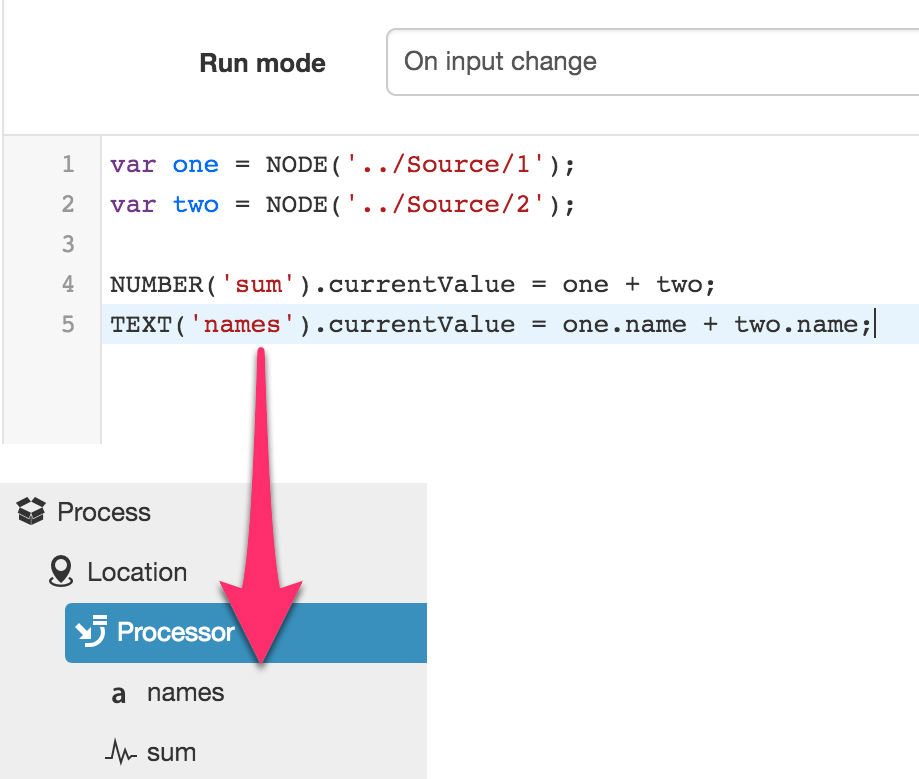
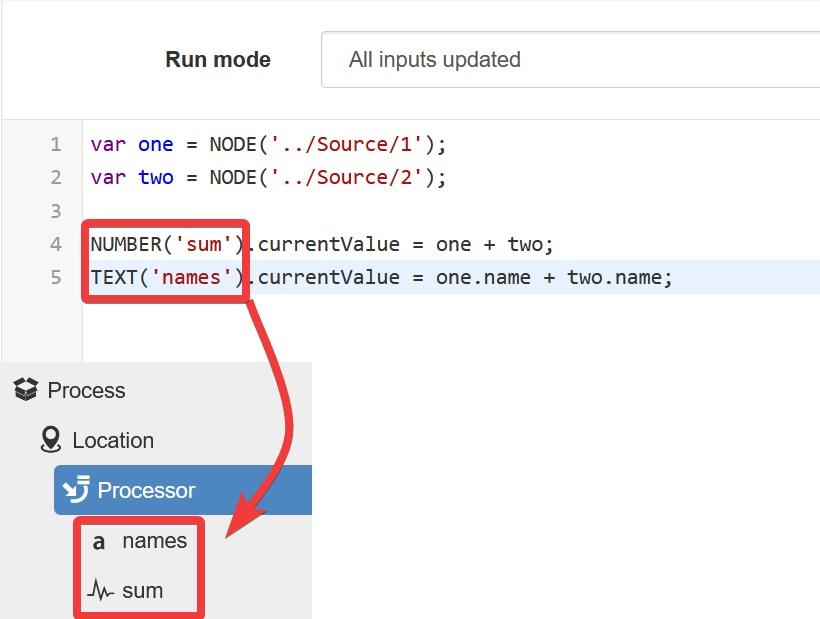
update process run mode, aggregate interval and related screenshots

Changed region(s): [[0.0, 0.1842, 0.9756, 1.0], [0.3963, 0.0307, 1.0, 0.1228], [0.1829, 0.0614, 0.3659, 0.1228]]

diff --git a/source/topics/processing_and_logic/index.rst b/source/topics/processing_and_logic/index.rst
@@ -450,6 +450,23 @@ The above example is able to treat the Node reference for **param1** as if it we
 Process Trigger
 ~~~~~~~~~~~~~~~~
 
+.. raw:: latex
+
+    \vspace{-10pt}
+
+.. only:: not latex
+
+    .. image:: run-mode.jpg
+        :scale: 50 %
+
+    | 
+
+.. only:: latex
+    
+    | 
+
+    .. image:: run-mode.jpg
+
 A process can be triggered to run in a number of ways:
 
 .. table::
@@ -492,9 +509,9 @@ Input data to your program can be filtered according to its quality type to ensu
 
 By default, your program will exclude quality types according to the :ref:`Quality Codes <management-general-qualitycodes>` configuration in your Account Settings. To ensure specific quality types are considered, a filter can be applied.
 
-.. _linked-inputs:
+.. _secondary-inputs:
 
-Linked inputs
+Secondary inputs
 ~~~~~~~~~~~~~~~~
 
 .. raw:: latex
@@ -503,7 +520,7 @@ Linked inputs
 
 .. only:: not latex
 
-    .. image:: linked-inputs.jpg
+    .. image:: secondary-inputs.jpg
         :scale: 50 %
 
     | 
@@ -512,17 +529,51 @@ Linked inputs
     
     | 
 
-    .. image:: linked-inputs.jpg
+    .. image:: secondary-inputs.jpg
 
-Process inputs may have records that occur at different times, e.g. parameters from different data sources. Input data not aligned with the current execution timestamp can be interpreted by a process in two ways:
+Secondary inputs may have records that occur at different times than the primary input, e.g. parameters from different data sources. Input data not aligned with the current execution timestamp can be interpreted by a process in two ways:
 
 .. table::
     :class: table-fluid
 
-    ===============   =================================================================
-    Linked            Values interpolated to align with the current execution timestamp
-    Unlinked          Values prior to the current execution timestamp are retained
-    ===============   =================================================================
+    =================================   ===========================================================================
+    Align input values (interpolated)   Secondary values interpolated to align with the current execution timestamp
+    Retain most recent input values     Secondary values prior to the current execution timestamp are retained
+    =================================   ===========================================================================
+
+
+.. _aggregate-inputs:
+
+Aggregate inputs
+~~~~~~~~~~~~~~~~
+
+.. raw:: latex
+
+    \vspace{-10pt}
+
+.. only:: not latex
+
+    .. image:: aggregate-inputs.jpg
+        :scale: 50 %
+
+    | 
+
+.. only:: latex
+    
+    | 
+
+    .. image:: aggregate-inputs.jpg
+
+Process aggregate inputs will have values that occur at a defined interval. Process execution can be delayed until the latest aggrgate interval is complete:
+
+.. table::
+    :class: table-fluid
+
+    ============================   =================================================================
+    Complete & partial intervals   Process will execute even during a partial aggregate interval
+    Complete intervals only        Process will only execute when the aggregate interval is complete
+    ============================   =================================================================
+
 
 
 .. _shared-code:
